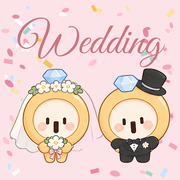
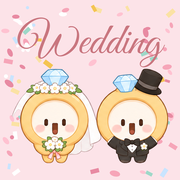
새 시트로 반지링 다시 오림 (베일·테두리 깔끔) · 아이콘·시작 화면 갱신
Claude-Session: https://claude.ai/code/session_011nUT2jvPTHRHkT69G7nQeK

Changed region(s): [[0.0556, 0.3611, 0.9444, 0.9167]]

diff --git a/assets/index-pwa-D8MaFG6C.js b/assets/index-pwa-D8MaFG6C.js
@@ -1,4 +1,4 @@
-(function(){let e=document.createElement(`link`).relList;if(e&&e.supports&&e.supports(`modulepreload`))return;for(let e of document.querySelectorAll(`link[rel="modulepreload"]`))n(e);new MutationObserver(e=>{for(let t of e)if(t.type===`childList`)for(let e of t.addedNodes)e.tagName===`LINK`&&e.rel===`modulepreload`&&n(e)}).observe(document,{childList:!0,subtree:!0});function t(e){let t={};return e.integrity&&(t.integrity=e.integrity),e.referrerPolicy&&(t.referrerPolicy=e.referrerPolicy),t.credentials=e.crossOrigin===`use-credentials`?`include`:e.crossOrigin===`anonymous`?`omit`:`same-origin`,t}function n(e){if(e.ep)return;e.ep=!0;let n=t(e);fetch(e.href,n)}})();var e=new URL(`hi-D2XCprSL.webp`,import.meta.url).href,t=new URL(`cheer-BWsyXYKK.webp`,import.meta.url).href,n=new URL(`sleep-D8C9v1wY.webp`,import.meta.url).href,r=new URL(`think-BNLIRibz.webp`,import.meta.url).href,i=new URL(`bride-DZOQc3-f.webp`,import.meta.url).href,a=new URL(`groom-BLOgYdLG.webp`,import.meta.url).href,o=new URL(`wink-2Ms35I2E.webp`,import.meta.url).href,s=new URL(`heart-Ci8cx-CW.webp`,import.meta.url).href,c=new URL(`wave-CHyDj84j.webp`,import.meta.url).href,l=new URL(`splash-art-B2PhjYXn.webp`,import.meta.url).href,u={hi:e,cheer:t,sleep:n,think:r,bride:i,groom:a,wink:o,heart:s,wave:c},d=[{id:`mint`,name:`민트`,c:`#17A88A`,d:`#4FD1B2`,soft:`#E3F6F1`,dsoft:`#173A33`},{id:`coral`,name:`코랄`,c:`#EE7240`,d:`#FF9D6E`,soft:`#FDEEE6`,dsoft:`#43281C`},{id:`rose`,name:`로즈`,c:`#D45C7E`,d:`#F08DAA`,soft:`#FBEAEF`,dsoft:`#45263A`},{id:`blue`,name:`블루`,c:`#3E72EC`,d:`#7FA5FF`,soft:`#E8EFFD`,dsoft:`#1E2B4A`},{id:`lavender`,name:`라벤더`,c:`#7C62D6`,d:`#B3A0F5`,soft:`#EFEBFB`,dsoft:`#2E2747`},{id:`black`,name:`블랙`,c:`#26262B`,d:`#EDEDF0`,soft:`#EFEFF1`,dsoft:`#2C2C31`}],f=`wn-accent`;function p(){try{return localStorage.getItem(f)||`mint`}catch{return`mint`}}var m=()=>{let e=document.documentElement.dataset.theme;return e?e===`dark`:matchMedia(`(prefers-color-scheme: dark)`).matches};function h(e=p(),t=!1){let n=d.find(t=>t.id===e)||d[0],r=document.documentElement,i=m(),a=i?n.d:n.c;r.dataset.accent=n.id,r.style.setProperty(`--accent`,a),r.style.setProperty(`--accent-soft`,i?n.dsoft:n.soft),r.style.setProperty(`--on-accent`,i?`#111`:`#fff`),r.style.setProperty(`--grad`,a);for(let e in u)r.style.setProperty(`--m-`+e,`url("${u[e]}")`);if(t)try{localStorage.setItem(f,n.id)}catch{}let o=document.querySelector(`meta[name="theme-color"]:not([media])`)||Object.assign(document.head.appendChild(document.createElement(`meta`)),{name:`theme-color`});return o.content=i?`#121214`:`#FFFFFF`,n}try{matchMedia(`(prefers-color-scheme: dark)`).addEventListener(`change`,()=>h())}catch{}var g=(e,t=`mascot`)=>`<span class="${t} m-${e}" aria-hidden="true"></span>`,_=[`잘했어요!`,`하나 끝!`,`반짝반짝 해냈어요`,`결혼식에 한 걸음 더`,`오늘도 수고했어요`],ee;function v(e,t=!1){document.querySelector(`.cheer`)?.remove(),clearTimeout(ee);let n=document.createElement(`div`);n.className=`cheer`,n.setAttribute(`role`,`status`),n.innerHTML=`${g(`cheer`)}<b>${e||_[Math.floor(Math.random()*_.length)]}</b>`,document.body.appendChild(n),ee=setTimeout(()=>n.remove(),t?2600:1900),T(t),D(t)}var y=(e,t)=>{try{let n=localStorage.getItem(e);return n===null?t:n===`1`}catch{return t}},b={get confetti(){return y(`wn-fx`,!0)},set confetti(e){try{localStorage.setItem(`wn-fx`,e?`1`:`0`)}catch{}},get sound(){return y(`wn-sound`,!0)},set sound(e){try{localStorage.setItem(`wn-sound`,e?`1`:`0`)}catch{}}},x=()=>matchMedia(`(prefers-reduced-motion: reduce)`).matches,S,C,w=[];function T(e=!1){if(!b.confetti||x())return;S||(S=document.createElement(`canvas`),S.className=`fx-canvas`,S.setAttribute(`aria-hidden`,`true`)),S.isConnected||document.body.appendChild(S);let t=Math.min(2,devicePixelRatio||1),n=innerWidth,r=innerHeight;S.width=n*t,S.height=r*t;let i=S.getContext(`2d`);i.setTransform(t,0,0,t,0,0);let a=[`#F6A5B8`,`#FFD1DC`,`#F4C451`,`#FFFFFF`,getComputedStyle(document.documentElement).getPropertyValue(`--accent`).trim()||`#17A88A`,`#C9E4FF`,`#FBE2A4`],o=e?150:70;for(let t=0;t<o;t++){let i=t%2==0,o=i?-10:n+10,s=r*(.72+Math.random()*.12),c=Math.PI/2*-1+(i?1:-1)*(.25+Math.random()*.55),l=(e?15:12)+Math.random()*(e?9:7),u=Math.random()<.38?`petal`:Math.random()<.5?`rect`:`dot`;w.push({x:o,y:s,vx:Math.cos(c)*l,vy:Math.sin(c)*l,r:Math.random()*Math.PI*2,vr:(Math.random()-.5)*.3,s:u===`petal`?7+Math.random()*6:4+Math.random()*4,c:u===`petal`?[`#F6A5B8`,`#FFD1DC`,`#FFC2D1`,`#FFFFFF`][t%4]:a[t%a.length],k:u,t:0,life:110+Math.random()*60,sw:Math.random()*6})}if(C)return;let s=()=>{i.clearRect(0,0,n,r),w=w.filter(e=>e.t<e.life&&e.y<r+40);for(let e of w)e.t++,e.vy+=.32,e.vx*=.985,e.vy*=.985,e.k===`petal`&&(e.vy=Math.min(e.vy,2.2),e.x+=Math.sin((e.t+e.sw*10)/12)*.9),e.x+=e.vx,e.y+=e.vy,e.r+=e.vr,i.save(),i.globalAlpha=Math.min(1,(e.life-e.t)/30),i.translate(e.x,e.y),i.rotate(e.r),i.fillStyle=e.c,e.k===`petal`?(i.beginPath(),i.ellipse(0,0,e.s,e.s*.55,0,0,Math.PI*2),i.fill(),i.fillStyle=`rgba(255,255,255,.5)`,i.beginPath(),i.ellipse(-e.s*.3,-e.s*.1,e.s*.35,e.s*.15,0,0,Math.PI*2),i.fill()):e.k===`rect`?(i.scale(1,Math.cos(e.t/5)),i.fillRect(-e.s/2,-e.s*.8,e.s,e.s*1.6)):(i.beginPath(),i.arc(0,0,e.s/2,0,Math.PI*2),i.fill()),e.c===`#FFFFFF`&&(i.strokeStyle=`rgba(0,0,0,.08)`,i.lineWidth=1,i.stroke()),i.restore();w.length?C=requestAnimationFrame(s):(C=null,i.clearRect(0,0,n,r),S.remove())};C=requestAnimationFrame(s)}var E;function D(e=!1){if(b.sound)try{E=E||new(window.AudioContext||window.webkitAudioContext),E.state===`suspended`&&E.resume();let t=E.currentTime+.01,n=e?[[523,0,.12],[659,.12,.12],[784,.24,.12],[1047,.38,.5]]:[[784,0,.1],[1047,.1,.3]],r=E.createGain();r.gain.value=.12,r.connect(E.destination);for(let[e,i,a]of n)for(let[n,o,s]of[[`triangle`,1,1],[`sine`,2,.3]]){let c=E.createOscillator(),l=E.createGain();c.type=n,c.frequency.value=e*o,l.gain.setValueAtTime(0,t+i),l.gain.linearRampToValueAtTime(s,t+i+.015),l.gain.exponentialRampToValueAtTime(.001,t+i+a+.25),c.connect(l),l.connect(r),c.start(t+i),c.stop(t+i+a+.3)}}catch{}}h();function O({title:e,sub:t=``,pose:n=`hi`,button:r=`시작하기`,party:i=!1}={}){return new Promise(n=>{let a=document.createElement(`div`);a.className=`splash`,a.setAttribute(`role`,`dialog`),a.setAttribute(`aria-label`,e.replace(/<[^>]+>/g,` `)),a.innerHTML=`<i class="sp-s a">✦</i><i class="sp-s b">♥</i><i class="sp-s c">✦</i><i class="sp-s d">♥</i><i class="sp-s e">✦</i>
+(function(){let e=document.createElement(`link`).relList;if(e&&e.supports&&e.supports(`modulepreload`))return;for(let e of document.querySelectorAll(`link[rel="modulepreload"]`))n(e);new MutationObserver(e=>{for(let t of e)if(t.type===`childList`)for(let e of t.addedNodes)e.tagName===`LINK`&&e.rel===`modulepreload`&&n(e)}).observe(document,{childList:!0,subtree:!0});function t(e){let t={};return e.integrity&&(t.integrity=e.integrity),e.referrerPolicy&&(t.referrerPolicy=e.referrerPolicy),t.credentials=e.crossOrigin===`use-credentials`?`include`:e.crossOrigin===`anonymous`?`omit`:`same-origin`,t}function n(e){if(e.ep)return;e.ep=!0;let n=t(e);fetch(e.href,n)}})();var e=new URL(`hi-Cj1TeUIU.webp`,import.meta.url).href,t=new URL(`cheer-CTkT-2d9.webp`,import.meta.url).href,n=new URL(`sleep-D8qlL5Zz.webp`,import.meta.url).href,r=new URL(`think-CUr7WjlF.webp`,import.meta.url).href,i=new URL(`bride-CEqld_eg.webp`,import.meta.url).href,a=new URL(`groom-CQfb-5fD.webp`,import.meta.url).href,o=new URL(`wink-DknxS0_G.webp`,import.meta.url).href,s=new URL(`heart-D_9B21rj.webp`,import.meta.url).href,c=new URL(`wave-2UFk1o7h.webp`,import.meta.url).href,l=new URL(`splash-art-UoKu1fw6.webp`,import.meta.url).href,u={hi:e,cheer:t,sleep:n,think:r,bride:i,groom:a,wink:o,heart:s,wave:c},d=[{id:`mint`,name:`민트`,c:`#17A88A`,d:`#4FD1B2`,soft:`#E3F6F1`,dsoft:`#173A33`},{id:`coral`,name:`코랄`,c:`#EE7240`,d:`#FF9D6E`,soft:`#FDEEE6`,dsoft:`#43281C`},{id:`rose`,name:`로즈`,c:`#D45C7E`,d:`#F08DAA`,soft:`#FBEAEF`,dsoft:`#45263A`},{id:`blue`,name:`블루`,c:`#3E72EC`,d:`#7FA5FF`,soft:`#E8EFFD`,dsoft:`#1E2B4A`},{id:`lavender`,name:`라벤더`,c:`#7C62D6`,d:`#B3A0F5`,soft:`#EFEBFB`,dsoft:`#2E2747`},{id:`black`,name:`블랙`,c:`#26262B`,d:`#EDEDF0`,soft:`#EFEFF1`,dsoft:`#2C2C31`}],f=`wn-accent`;function p(){try{return localStorage.getItem(f)||`mint`}catch{return`mint`}}var m=()=>{let e=document.documentElement.dataset.theme;return e?e===`dark`:matchMedia(`(prefers-color-scheme: dark)`).matches};function h(e=p(),t=!1){let n=d.find(t=>t.id===e)||d[0],r=document.documentElement,i=m(),a=i?n.d:n.c;r.dataset.accent=n.id,r.style.setProperty(`--accent`,a),r.style.setProperty(`--accent-soft`,i?n.dsoft:n.soft),r.style.setProperty(`--on-accent`,i?`#111`:`#fff`),r.style.setProperty(`--grad`,a);for(let e in u)r.style.setProperty(`--m-`+e,`url("${u[e]}")`);if(t)try{localStorage.setItem(f,n.id)}catch{}let o=document.querySelector(`meta[name="theme-color"]:not([media])`)||Object.assign(document.head.appendChild(document.createElement(`meta`)),{name:`theme-color`});return o.content=i?`#121214`:`#FFFFFF`,n}try{matchMedia(`(prefers-color-scheme: dark)`).addEventListener(`change`,()=>h())}catch{}var g=(e,t=`mascot`)=>`<span class="${t} m-${e}" aria-hidden="true"></span>`,_=[`잘했어요!`,`하나 끝!`,`반짝반짝 해냈어요`,`결혼식에 한 걸음 더`,`오늘도 수고했어요`],ee;function v(e,t=!1){document.querySelector(`.cheer`)?.remove(),clearTimeout(ee);let n=document.createElement(`div`);n.className=`cheer`,n.setAttribute(`role`,`status`),n.innerHTML=`${g(`cheer`)}<b>${e||_[Math.floor(Math.random()*_.length)]}</b>`,document.body.appendChild(n),ee=setTimeout(()=>n.remove(),t?2600:1900),T(t),D(t)}var y=(e,t)=>{try{let n=localStorage.getItem(e);return n===null?t:n===`1`}catch{return t}},b={get confetti(){return y(`wn-fx`,!0)},set confetti(e){try{localStorage.setItem(`wn-fx`,e?`1`:`0`)}catch{}},get sound(){return y(`wn-sound`,!0)},set sound(e){try{localStorage.setItem(`wn-sound`,e?`1`:`0`)}catch{}}},x=()=>matchMedia(`(prefers-reduced-motion: reduce)`).matches,S,C,w=[];function T(e=!1){if(!b.confetti||x())return;S||(S=document.createElement(`canvas`),S.className=`fx-canvas`,S.setAttribute(`aria-hidden`,`true`)),S.isConnected||document.body.appendChild(S);let t=Math.min(2,devicePixelRatio||1),n=innerWidth,r=innerHeight;S.width=n*t,S.height=r*t;let i=S.getContext(`2d`);i.setTransform(t,0,0,t,0,0);let a=[`#F6A5B8`,`#FFD1DC`,`#F4C451`,`#FFFFFF`,getComputedStyle(document.documentElement).getPropertyValue(`--accent`).trim()||`#17A88A`,`#C9E4FF`,`#FBE2A4`],o=e?150:70;for(let t=0;t<o;t++){let i=t%2==0,o=i?-10:n+10,s=r*(.72+Math.random()*.12),c=Math.PI/2*-1+(i?1:-1)*(.25+Math.random()*.55),l=(e?15:12)+Math.random()*(e?9:7),u=Math.random()<.38?`petal`:Math.random()<.5?`rect`:`dot`;w.push({x:o,y:s,vx:Math.cos(c)*l,vy:Math.sin(c)*l,r:Math.random()*Math.PI*2,vr:(Math.random()-.5)*.3,s:u===`petal`?7+Math.random()*6:4+Math.random()*4,c:u===`petal`?[`#F6A5B8`,`#FFD1DC`,`#FFC2D1`,`#FFFFFF`][t%4]:a[t%a.length],k:u,t:0,life:110+Math.random()*60,sw:Math.random()*6})}if(C)return;let s=()=>{i.clearRect(0,0,n,r),w=w.filter(e=>e.t<e.life&&e.y<r+40);for(let e of w)e.t++,e.vy+=.32,e.vx*=.985,e.vy*=.985,e.k===`petal`&&(e.vy=Math.min(e.vy,2.2),e.x+=Math.sin((e.t+e.sw*10)/12)*.9),e.x+=e.vx,e.y+=e.vy,e.r+=e.vr,i.save(),i.globalAlpha=Math.min(1,(e.life-e.t)/30),i.translate(e.x,e.y),i.rotate(e.r),i.fillStyle=e.c,e.k===`petal`?(i.beginPath(),i.ellipse(0,0,e.s,e.s*.55,0,0,Math.PI*2),i.fill(),i.fillStyle=`rgba(255,255,255,.5)`,i.beginPath(),i.ellipse(-e.s*.3,-e.s*.1,e.s*.35,e.s*.15,0,0,Math.PI*2),i.fill()):e.k===`rect`?(i.scale(1,Math.cos(e.t/5)),i.fillRect(-e.s/2,-e.s*.8,e.s,e.s*1.6)):(i.beginPath(),i.arc(0,0,e.s/2,0,Math.PI*2),i.fill()),e.c===`#FFFFFF`&&(i.strokeStyle=`rgba(0,0,0,.08)`,i.lineWidth=1,i.stroke()),i.restore();w.length?C=requestAnimationFrame(s):(C=null,i.clearRect(0,0,n,r),S.remove())};C=requestAnimationFrame(s)}var E;function D(e=!1){if(b.sound)try{E=E||new(window.AudioContext||window.webkitAudioContext),E.state===`suspended`&&E.resume();let t=E.currentTime+.01,n=e?[[523,0,.12],[659,.12,.12],[784,.24,.12],[1047,.38,.5]]:[[784,0,.1],[1047,.1,.3]],r=E.createGain();r.gain.value=.12,r.connect(E.destination);for(let[e,i,a]of n)for(let[n,o,s]of[[`triangle`,1,1],[`sine`,2,.3]]){let c=E.createOscillator(),l=E.createGain();c.type=n,c.frequency.value=e*o,l.gain.setValueAtTime(0,t+i),l.gain.linearRampToValueAtTime(s,t+i+.015),l.gain.exponentialRampToValueAtTime(.001,t+i+a+.25),c.connect(l),l.connect(r),c.start(t+i),c.stop(t+i+a+.3)}}catch{}}h();function O({title:e,sub:t=``,pose:n=`hi`,button:r=`시작하기`,party:i=!1}={}){return new Promise(n=>{let a=document.createElement(`div`);a.className=`splash`,a.setAttribute(`role`,`dialog`),a.setAttribute(`aria-label`,e.replace(/<[^>]+>/g,` `)),a.innerHTML=`<i class="sp-s a">✦</i><i class="sp-s b">♥</i><i class="sp-s c">✦</i><i class="sp-s d">♥</i><i class="sp-s e">✦</i>
       <div class="sp-text"><h1>${e}</h1>${t?`<p>${t}</p>`:``}</div>
       <div class="sp-char"><img class="sp-art" src="${l}" alt=""></div>
       <button type="button" class="sp-btn">${r}</button>`,document.body.appendChild(a),requestAnimationFrame(()=>a.classList.add(`in`)),i&&setTimeout(()=>{T(!0),D(!0)},350),a.querySelector(`.sp-btn`).onclick=()=>{a.classList.remove(`in`),a.classList.add(`out`),setTimeout(()=>{a.remove(),n()},320)}})}var k=[`cats`,`items`,`events`,`guests`,`teams`,`meta`],A=`wedding-demo-v1`,te=e=>e==null?e:JSON.parse(JSON.stringify(e)),j=()=>{let e=``;for(let t of crypto.getRandomValues(new Uint8Array(20)))e+=`abcdefghijklmnopqrstuvwxyz0123456789`[t%36];return e},M=(e,t)=>Object.assign(Error(t||e),{code:e}),N=(e,t)=>e+`~`+t;async function ne(){let e=window.claude,t=await(e?.use?.(`db`)??null),n=await(e?.use?.(`user`)??null),r=n?await n.id():null,i=t&&r?`cloud`:`local`,a=i===`cloud`?t.collection(`data/users/`+r):null,o=Object.fromEntries(k.map(e=>[e,new Map])),s=Object.fromEntries(k.map(e=>[e,new Set])),c=new Map,l=!1,u=[],d=(e,t)=>{let n=o[e].get(t);return{id:t,exists:!!n,data:()=>n?te(n):void 0,metadata:{fromCache:!1,hasPendingWrites:!1}}},f=e=>{let t=[...o[e].entries()].sort((e,t)=>e[0]<t[0]?-1:1).map(([e,t])=>({id:e,exists:!0,data:()=>te(t)}));return{docs:t,size:t.length,empty:!t.length,docChanges:()=>[]}},p=null,m=new Set;function h(e,t){m.add(e+`/`+(t??``)),!p&&(p=Promise.resolve().then(()=>{p=null;let e=[...m];m.clear();for(let t of new Set(e.map(e=>e.split(`/`)[0])))for(let e of s[t])try{e(f(t))}catch(e){console.error(e)}for(let t of e){let e=c.get(t);if(e){let[n,r]=t.split(`/`);for(let t of e)try{t(d(n,r))}catch(e){console.error(e)}}}}))}let g=()=>{try{localStorage.setItem(A,JSON.stringify(Object.fromEntries(k.map(e=>[e,Object.fromEntries(o[e])]))))}catch{}},_=()=>{try{let e=JSON.parse(localStorage.getItem(A)||`{}`);for(let t of k)for(let[n,r]of Object.entries(e[t]||{}))o[t].set(n,r)}catch{}},ee=()=>{l=!0,u.splice(0).forEach(e=>e());for(let e of k)h(e)};async function v(e,t,n){if(i!==`cloud`)return g();try{let r=a.doc(N(e,t));n===void 0?await r.delete():await r.set({c:e,i:t,d:n})}catch(e){if(e?.code===`invalid_argument`||e?.code===`not_granted`||e?.code===`revoked`){i=`local`,g();return}throw M(`unavailable`,e?.message)}}async function y(e,t,n){if(!o[e])throw M(`invalid_argument`,`unknown collection `+e);let r=o[e].get(t);n===void 0?o[e].delete(t):o[e].set(t,n),h(e,t);try{await v(e,t,n)}catch(n){throw r===void 0?o[e].delete(t):o[e].set(t,r),h(e,t),n}}let b=(e,t)=>({id:t,path:e+`/`+t,async get(){return l||await new Promise(e=>u.push(e)),d(e,t)},set:n=>y(e,t,te(n)),update:n=>o[e].has(t)?y(e,t,{...o[e].get(t),...te(n)}):Promise.reject(M(`invalid_argument`)),delete:()=>y(e,t,void 0),onSnapshot(n){let r=e+`/`+t;return c.has(r)||c.set(r,new Set),c.get(r).add(n),l&&queueMicrotask(()=>n(d(e,t))),()=>c.get(r)?.delete(n)}}),x=e=>({path:e,doc:t=>b(e,t||j()),async add(t){let n=j();return await y(e,n,te(t)),b(e,n)},async get(){return l||await new Promise(e=>u.push(e)),f(e)},onSnapshot(t){return s[e].add(t),l&&queueMicrotask(()=>t(f(e))),()=>s[e].delete(t)}});return{get mode(){return i},doc(e){let[t,n]=String(e).split(`/`);return b(t,n)},collection:e=>x(e),newId:j,snapshotAll:()=>Object.fromEntries(k.map(e=>[e,Object.fromEntries(o[e])])),async bulkUpsert(e){for(let t of e)o[t.coll]?.set(t.id,te(t.data)),h(t.coll,t.id);if(i===`local`)return g();for(let t=0;t<e.length;t+=8)await Promise.all(e.slice(t,t+8).map(e=>v(e.coll,e.id,e.data)))},async clearAll(){let e=[];for(let t of k)for(let n of o[t].keys())e.push([t,n]);for(let e of k)o[e].clear();if(i===`local`)try{localStorage.removeItem(A)}catch{}else for(let t=0;t<e.length;t+=8)await Promise.all(e.slice(t,t+8).map(([e,t])=>a.doc(N(e,t)).delete().catch(()=>{})))},start(){return new Promise(e=>{if(i===`local`)return _(),ee(),e();let t=!0;a.onSnapshot(n=>{for(let e of k)o[e].clear();for(let e of n.docs){let t=e.data();t&&o[t.c]&&o[t.c].set(t.i,t.d)}if(t)t=!1,ee(),e();else for(let e of k)h(e)},()=>{i=`local`,_(),t&&(t=!1,ee(),e())}),setTimeout(()=>{t&&(t=!1,i=`local`,_(),ee(),e())},12e3)})}}}var re=[{id:`hall`,name:`웨딩홀`,desc:`전문 예식장 · 가장 일반적`,search:`웨딩홀`},{id:`hotel`,name:`호텔`,desc:`격식 있는 연회장`,search:`호텔 웨딩`},{id:`small`,name:`스몰·하우스`,desc:`100명 이하 · 공간 대관`,search:`스몰웨딩`},{id:`outdoor`,name:`야외·가든`,desc:`정원·루프탑 · 날씨 대비 필요`,search:`야외웨딩`},{id:`church`,name:`성당·교회`,desc:`종교 예식 · 피로연 별도`,search:`성당`}],ie=[`웨딩홀`,`호텔 웨딩`,`스몰웨딩`,`하우스웨딩`,`야외웨딩`,`성당`,`교회`,`상견례 식당`],ae=[`서울`,`경기`,`인천`,`부산`,`대구`,`광주`,`대전`,`울산`,`세종`,`강원`,`충북`,`충남`,`전북`,`전남`,`경북`,`경남`,`제주`],P={hall:{hall:45,sdm:12,photo:5,honeymoon:20,guestmgmt:5,etc:13},hotel:{hall:58,sdm:10,photo:4,honeymoon:15,guestmgmt:4,etc:9},small:{hall:30,sdm:15,photo:10,honeymoon:25,guestmgmt:5,etc:15},outdoor:{hall:38,sdm:13,photo:9,honeymoon:22,guestmgmt:5,etc:13},church:{hall:35,sdm:14,photo:7,honeymoon:24,guestmgmt:5,etc:15}},F={hall:`웨딩홀`,hotel:`호텔 연회장`,small:`스몰웨딩 공간`,outdoor:`야외 웨딩 장소`,church:`성당·교회 혼배`},oe=[{k:`parents`,t:`양가 부모님께 인사`,c:`etc`,off:420},{k:`meet-place`,t:`상견례 식당`,c:`etc`,off:410,v:1},{k:`meet`,t:`상견례`,c:`etc`,off:390,why:`보통 상견례 후 예식장을 잡아요. 식장을 먼저 잡는 커플도 있어요`},{k:`scale`,t:`예산·하객 규모 정하기`,c:`etc`,off:380,why:`예식장 크기와 식대가 여기서 정해져요`},{k:`planner`,t:`웨딩플래너`,c:`etc`,off:370,v:1,planner:!0,why:`플래너 제휴로 스드메·예복·한복 할인을 받을 수 있어요`},{k:`fair`,t:`웨딩박람회 다녀오기`,c:`hall`,off:370,planner:!1,why:`예식장·스드메 견적을 하루에 비교하기 좋아요`},{k:`church-ask`,t:`본당에 혼배 날짜 문의`,c:`hall`,off:400,only:[`church`],why:`인기 날짜는 빨리 차고, 교리 일정도 같이 확인해야 해요`},{k:`tour`,t:`예식장 투어 (3곳 이상)`,c:`hall`,off:350,skip:[`church`],why:`식대·보증인원·대관료·주차를 같은 기준으로 비교해요`},{k:`venue`,t:null,c:`hall`,off:330,v:1,why:`계약서에 식대·보증인원·위약금 조건을 꼭 적어 두세요`},{k:`reception`,t:`피로연 장소`,c:`hall`,off:300,v:1,only:[`church`],why:`혼배 후 식사 장소는 따로 예약해야 해요`},{k:`hotel-guar`,t:`보증인원·식대 협의`,c:`hall`,off:300,only:[`hotel`],why:`호텔은 보증인원이 크고 식대가 높아 협의 폭이 커요`},{k:`catering`,t:`케이터링 업체`,c:`hall`,off:180,v:1,only:[`small`,`outdoor`],why:`공간 대관이면 식사를 따로 준비해야 해요`},{k:`contract-check`,t:`계약서 위약금·추가금 조항 확인`,c:`etc`,off:320,planner:!1,why:`플래너 없이 계약할 땐 직접 챙겨야 해요`},{k:`honeymoon-pick`,t:`신혼여행지 결정`,c:`honeymoon`,off:300},{k:`sdm-quote`,t:`스드메 견적 3곳 비교`,c:`sdm`,off:300,planner:!1,why:`드레스 피팅비·헬퍼비 같은 추가금까지 비교해요`},{k:`sdm`,t:`스드메 패키지`,c:`sdm`,off:270,v:1},{k:`studio`,t:`웨딩촬영 스튜디오`,c:`photo`,off:240,v:1,skip:[`small`]},{k:`snap`,t:`본식 스냅`,c:`hall`,off:240,v:1},{k:`dvd`,t:`본식 DVD`,c:`hall`,off:240,v:1,skip:[`small`]},{k:`house`,t:`신혼집 알아보기`,c:`etc`,off:240},{k:`dress-tour`,t:`드레스 투어`,c:`sdm`,off:210},{k:`flight`,t:`항공권`,c:`honeymoon`,off:180,v:1},{k:`ring`,t:`웨딩링`,c:`etc`,off:180,v:1},{k:`gift-scope`,t:`예물·예단 범위 정하기`,c:`etc`,off:180},{k:`house-contract`,t:`신혼집 계약`,c:`etc`,off:180},{k:`stay`,t:`숙소`,c:`honeymoon`,off:150,v:1},{k:`passport`,t:`여권 유효기간 확인`,c:`honeymoon`,off:150},{k:`hanbok`,t:`혼주 한복`,c:`etc`,off:180,v:1},{k:`class`,t:`혼인 교리 수강`,c:`etc`,off:150,only:[`church`],why:`혼배 전에 이수해야 해요. 본당 일정을 확인하세요`},{k:`suit`,t:`예복`,c:`sdm`,off:180,v:1},{k:`skin`,t:`피부·체형 관리 시작`,c:`sdm`,off:120},{k:`appliance`,t:`신혼 가전·가구`,c:`etc`,off:120,v:1,why:`입주일에 맞춰 배송 날짜를 잡아요. 혼수 박람회·가전 패키지 할인도 비교해 보세요`},{k:`parents-hm`,t:`혼주 헤어·메이크업`,c:`hall`,off:120,v:1},{k:`helper`,t:`본식 헬퍼`,c:`hall`,off:120,v:1},{k:`flower`,t:`꽃장식 상담`,c:`hall`,off:120,v:1,only:[`hotel`,`small`,`outdoor`],why:`웨딩홀과 달리 꽃장식이 별도인 경우가 많아요`},{k:`rain`,t:`우천 대비 플랜 (실내 대체 공간)`,c:`hall`,off:120,only:[`outdoor`],why:`비 예보가 나와도 바로 옮길 수 있게 미리 정해 둬요`},{k:`guests`,t:`하객리스트 작성 및 확정`,c:`guestmgmt`,off:90},{k:`invite`,t:`청첩장`,c:`guestmgmt`,off:90,v:1},{k:`mc`,t:`사회·축가 섭외`,c:`hall`,off:90},{k:`decor`,t:`공간 데코·꽃`,c:`hall`,off:90,v:1,only:[`small`],why:`대관 공간은 분위기를 직접 꾸며야 해요`},{k:`rental`,t:`의자·음향·조명 대여`,c:`hall`,off:90,v:1,only:[`outdoor`,`small`]},{k:`mobile-invite`,t:`모바일 청첩장`,c:`guestmgmt`,off:60,v:1},{k:`second-dress`,t:`2부 드레스`,c:`sdm`,off:60,v:1,why:`대여·구매 중 고르고, 본식 드레스 셀렉 때 같이 보면 편해요`},{k:`video`,t:`식전·식중 영상`,c:`hall`,off:60,v:1,why:`직접 만들거나 업체에 맡겨요. 예식장에 재생 파일 형식·길이를 꼭 확인하세요`},{k:`pyebaek`,t:`폐백 준비`,c:`hall`,off:60,v:1,only:[`hall`,`hotel`],why:`폐백실 이용 여부와 폐백 음식·이바지 업체를 양가와 정해요`},{k:`dress-select`,t:`본식 드레스 셀렉`,c:`sdm`,off:60},{k:`bus`,t:`하객 버스 대절`,c:`guestmgmt`,off:60,v:1,minGuests:150,why:`지방 하객이 많으면 미리 예약해요`},{k:`church-docs`,t:`혼배 서류 준비`,c:`etc`,off:60,only:[`church`],why:`세례증명서 등 필요한 서류를 본당에 확인해요`},{k:`route`,t:`하객 동선·주차 확인`,c:`hall`,off:60,only:[`outdoor`,`small`]},{k:`invite-meet`,t:`청첩장 모임·발송`,c:`guestmgmt`,off:45},{k:`fitting`,t:`드레스 가봉`,c:`sdm`,off:35,why:`본식 드레스를 몸에 맞게 수선해요. 신발·속옷도 그날 신고 가요`},{k:`order`,t:`식순·입장 순서 확정`,c:`hall`,off:30},{k:`bouquet`,t:`부케·부토니에`,c:`hall`,off:30,v:1},{k:`return-gift`,t:`답례품`,c:`guestmgmt`,off:30,v:1},{k:`seat`,t:`하객 좌석 배치도`,c:`guestmgmt`,off:21,only:[`small`,`hotel`]},{k:`insurance`,t:`여행자보험 가입`,c:`honeymoon`,off:21},{k:`exchange`,t:`환전`,c:`honeymoon`,off:14},{k:`final`,t:`예식장 최종 미팅`,c:`hall`,off:14},{k:`bag`,t:`가방순이 섭외`,c:`hall`,off:14,skip:[`small`]},{k:`bus-notice`,t:`하객 버스 탑승 안내`,c:`guestmgmt`,off:7,minGuests:150},{k:`dayof`,t:`당일 준비물 챙기기`,c:`hall`,off:3},{k:`register`,t:`혼인신고`,c:`etc`,off:-14},{k:`thanks`,t:`감사 인사 연락`,c:`guestmgmt`,off:-7}],se=[[`12개월 이상 전`,365,1e9],[`6~12개월 전`,180,364],[`3~6개월 전`,90,179],[`1~3개월 전`,30,89],[`한 달 이내`,7,29],[`마지막 주`,0,6],[`결혼식 이후`,-1e9,-1]],ce=e=>(se.find(([,t,n])=>e>=t&&e<=n)||se[0])[0],le=e=>e.getFullYear()+`-`+String(e.getMonth()+1).padStart(2,`0`)+`-`+String(e.getDate()).padStart(2,`0`);function I(e={}){return{style:re.some(t=>t.id===e.style)?e.style:`hall`,planner:!!e.planner,guests:Math.max(0,Math.round(+e.guests||0)),budget:Math.max(0,Math.round(+e.budget||0)),sido:e.sido||``,sigungu:(e.sigungu||``).trim(),date:e.date||``}}function ue(e,t=le(new Date)){let n=I(e),r=[];for(let e of oe){if(e.only&&!e.only.includes(n.style)||e.skip&&e.skip.includes(n.style)||e.planner===!0&&!n.planner||e.planner===!1&&n.planner||e.minGuests&&n.guests&&n.guests<e.minGuests)continue;let i=e.k===`venue`?F[n.style]:e.t,a=``,o=!1;if(n.date){let r=new Date(n.date+`T00:00:00`);r.setDate(r.getDate()-e.off),a=le(r),a<t&&e.off>0&&(o=!0,a=t)}r.push({key:e.k,title:i,cat:e.c,vendor:!!e.v,off:e.off,phase:ce(e.off),due:a,late:o,why:e.why||``})}return r}function de(e){let t=I(e);if(!t.budget)return null;let n=P[t.style],r={},i=0,a=Object.keys(n);return a.forEach((e,o)=>{let s=o===a.length-1?t.budget-i:Math.round(t.budget*n[e]/100/1e5)*1e5;r[e]=Math.max(0,s),i+=r[e]}),r}var fe=e=>(re.find(t=>t.id===e)||re[0]).name,pe=e=>(re.find(t=>t.id===e)||re[0]).search,me=e=>[e?.sido,e?.sigungu].filter(Boolean).join(` `);function he(e){return{title:e.title,cat:e.cat,status:`시작 전`,due:e.due,deposit:0,balance:0,payDate:``,note:e.why,balancePaid:!1,rkey:e.key,...e.vendor?{kind:`vendor`}:{}}}var ge=`한국소비자원 참가격 결혼서비스 통계 (2026년 8월 기준)`,_e={gangnam:{label:`서울 강남`,meal:88e3,hall:758e4,decor:226e4,sdm:387e4},seoul:{label:`서울`,meal:8e4,hall:63e5,decor:0,sdm:35e5},metro:{label:`경기·인천`,meal:6e4,hall:35e5,decor:0,sdm:298e4},nonmetro:{label:`비수도권`,meal:6e4,hall:274e4,decor:18e4,sdm:284e4}};function ve(e){return e?.sido===`서울`?/강남/.test(e.sigungu||``)?`gangnam`:`seoul`:e?.sido===`경기`||e?.sido===`인천`?`metro`:e?.sido?`nonmetro`:`metro`}var ye={hall:200,hotel:200,small:70,outdoor:120,church:150};function be(e){let t=I(e),n=ve(t),r=_e[n],i=t.guests||ye[t.style],a=t.style===`hotel`?119e3:t.style===`small`||t.style===`church`?62e3:r.meal,o=[];o.push({key:`meal`,label:`식대 ${i}명 × ${(a/1e4).toLocaleString(`ko-KR`)}만 원`,amount:i*a,basis:t.style===`hotel`?`코스식 전국 평균`:t.style===`small`||t.style===`church`?`뷔페식 전국 평균`:`${r.label} 1인당 식대 중간값`}),t.style===`church`?o.push({key:`hall`,label:`성당·교회 사용료`,amount:0,basis:`본당·교회마다 달라서 직접 확인해 주세요`}):o.push({key:`hall`,label:t.style===`small`?`공간 대관료`:`대관료`,amount:r.hall,basis:`${r.label} 기준`}),r.decor&&o.push({key:`decor`,label:`기본 장식비`,amount:r.decor,basis:`${r.label} 기준`}),o.push({key:`sdm`,label:`스드메 (스튜디오·드레스·메이크업)`,amount:r.sdm,basis:`${{gangnam:`강남`,seoul:`서울 중간값`,metro:`전국 중간값`,nonmetro:`비수도권`}[n]} 기준`});let s=o.reduce((e,t)=>e+t.amount,0),c=o.filter(e=>e.key!==`sdm`).reduce((e,t)=>e+t.amount,0);return{tier:n,tierLabel:r.label,guests:i,meal:a,lines:o,total:s,budgets:{hall:c,sdm:r.sdm},source:ge,note:`신혼여행·예물·한복·청첩장 등은 공식 통계가 없어 빠져 있어요. 견적을 받으면 예산 탭에서 채워 주세요.`}}var xe=[[`hall`,`예식장`],[`sdm`,`스드메`],[`photo`,`웨딩촬영`],[`honeymoon`,`신혼여행`],[`guestmgmt`,`하객관리`],[`etc`,`기타`],[`extra`,`예외항목`]];function Se({p1:e,p2:t,date:n,time:r,place:i,profile:a}){let o=I({...a||{},date:n}),s=de(o)||be(o).budgets,c=[];xe.forEach(([e,t],n)=>c.push({coll:`cats`,id:e,data:{name:t,budget:s[e]||0,order:n+1}}));for(let e of ue(o))c.push({coll:`items`,id:`r-`+e.key,data:he(e)});if(n){let e=new Date(n+`T`+(r||`00:00`)+`:00`).toISOString();c.push({coll:`events`,id:`wedding`,data:{name:`결혼식`,at:e,allDay:!r,place:i||``,status:`시작 전`}})}return c.push({coll:`meta`,id:`settings`,data:{p1:e,p2:t,mealPrice:be(o).meal,minGuests:o.guests||0,profile:{...o,date:void 0}}}),c}var L=e=>String(e).padStart(2,`0`),R=(e,t)=>`${e<12?`오전`:`오후`} ${e%12==0?12:e%12}:${L(t)}`,Ce=[];for(let e=8;e<=21;e++)for(let t=0;t<60;t+=10)Ce.push(`${L(e)}:${L(t)}`);var we={from:`10:00`,to:`19:00`};function Te(e,t=``,{emptyLabel:n=`시간 미정`,from:r=`08:00`,to:i=`21:50`}={}){let a=(t||``).slice(0,5),o=Ce.filter(e=>e>=r&&e<=i),s=!a||o.includes(a),c=[`<option value="">${n}</option>`,...o.map(e=>`<option value="${e}" ${e===a?`selected`:``}>${R(+e.slice(0,2),+e.slice(3))}</option>`),`<option value="__custom">직접 입력…</option>`].join(``);return`<div class="tp ${s?``:`custom`}" data-tp="${e}">

diff --git a/index.html b/index.html
@@ -14,7 +14,7 @@
 <meta name="apple-mobile-web-app-title" content="아이두웨딩">
 <meta name="apple-mobile-web-app-status-bar-style" content="default">
 <meta name="mobile-web-app-capable" content="yes">
-  <script type="module" crossorigin src="./assets/index-pwa-hPM5BMVJ.js"></script>
+  <script type="module" crossorigin src="./assets/index-pwa-D8MaFG6C.js"></script>
   <link rel="stylesheet" crossorigin href="./assets/index-pwa-CYX3Pbk4.css">
 </head>
 <body>
